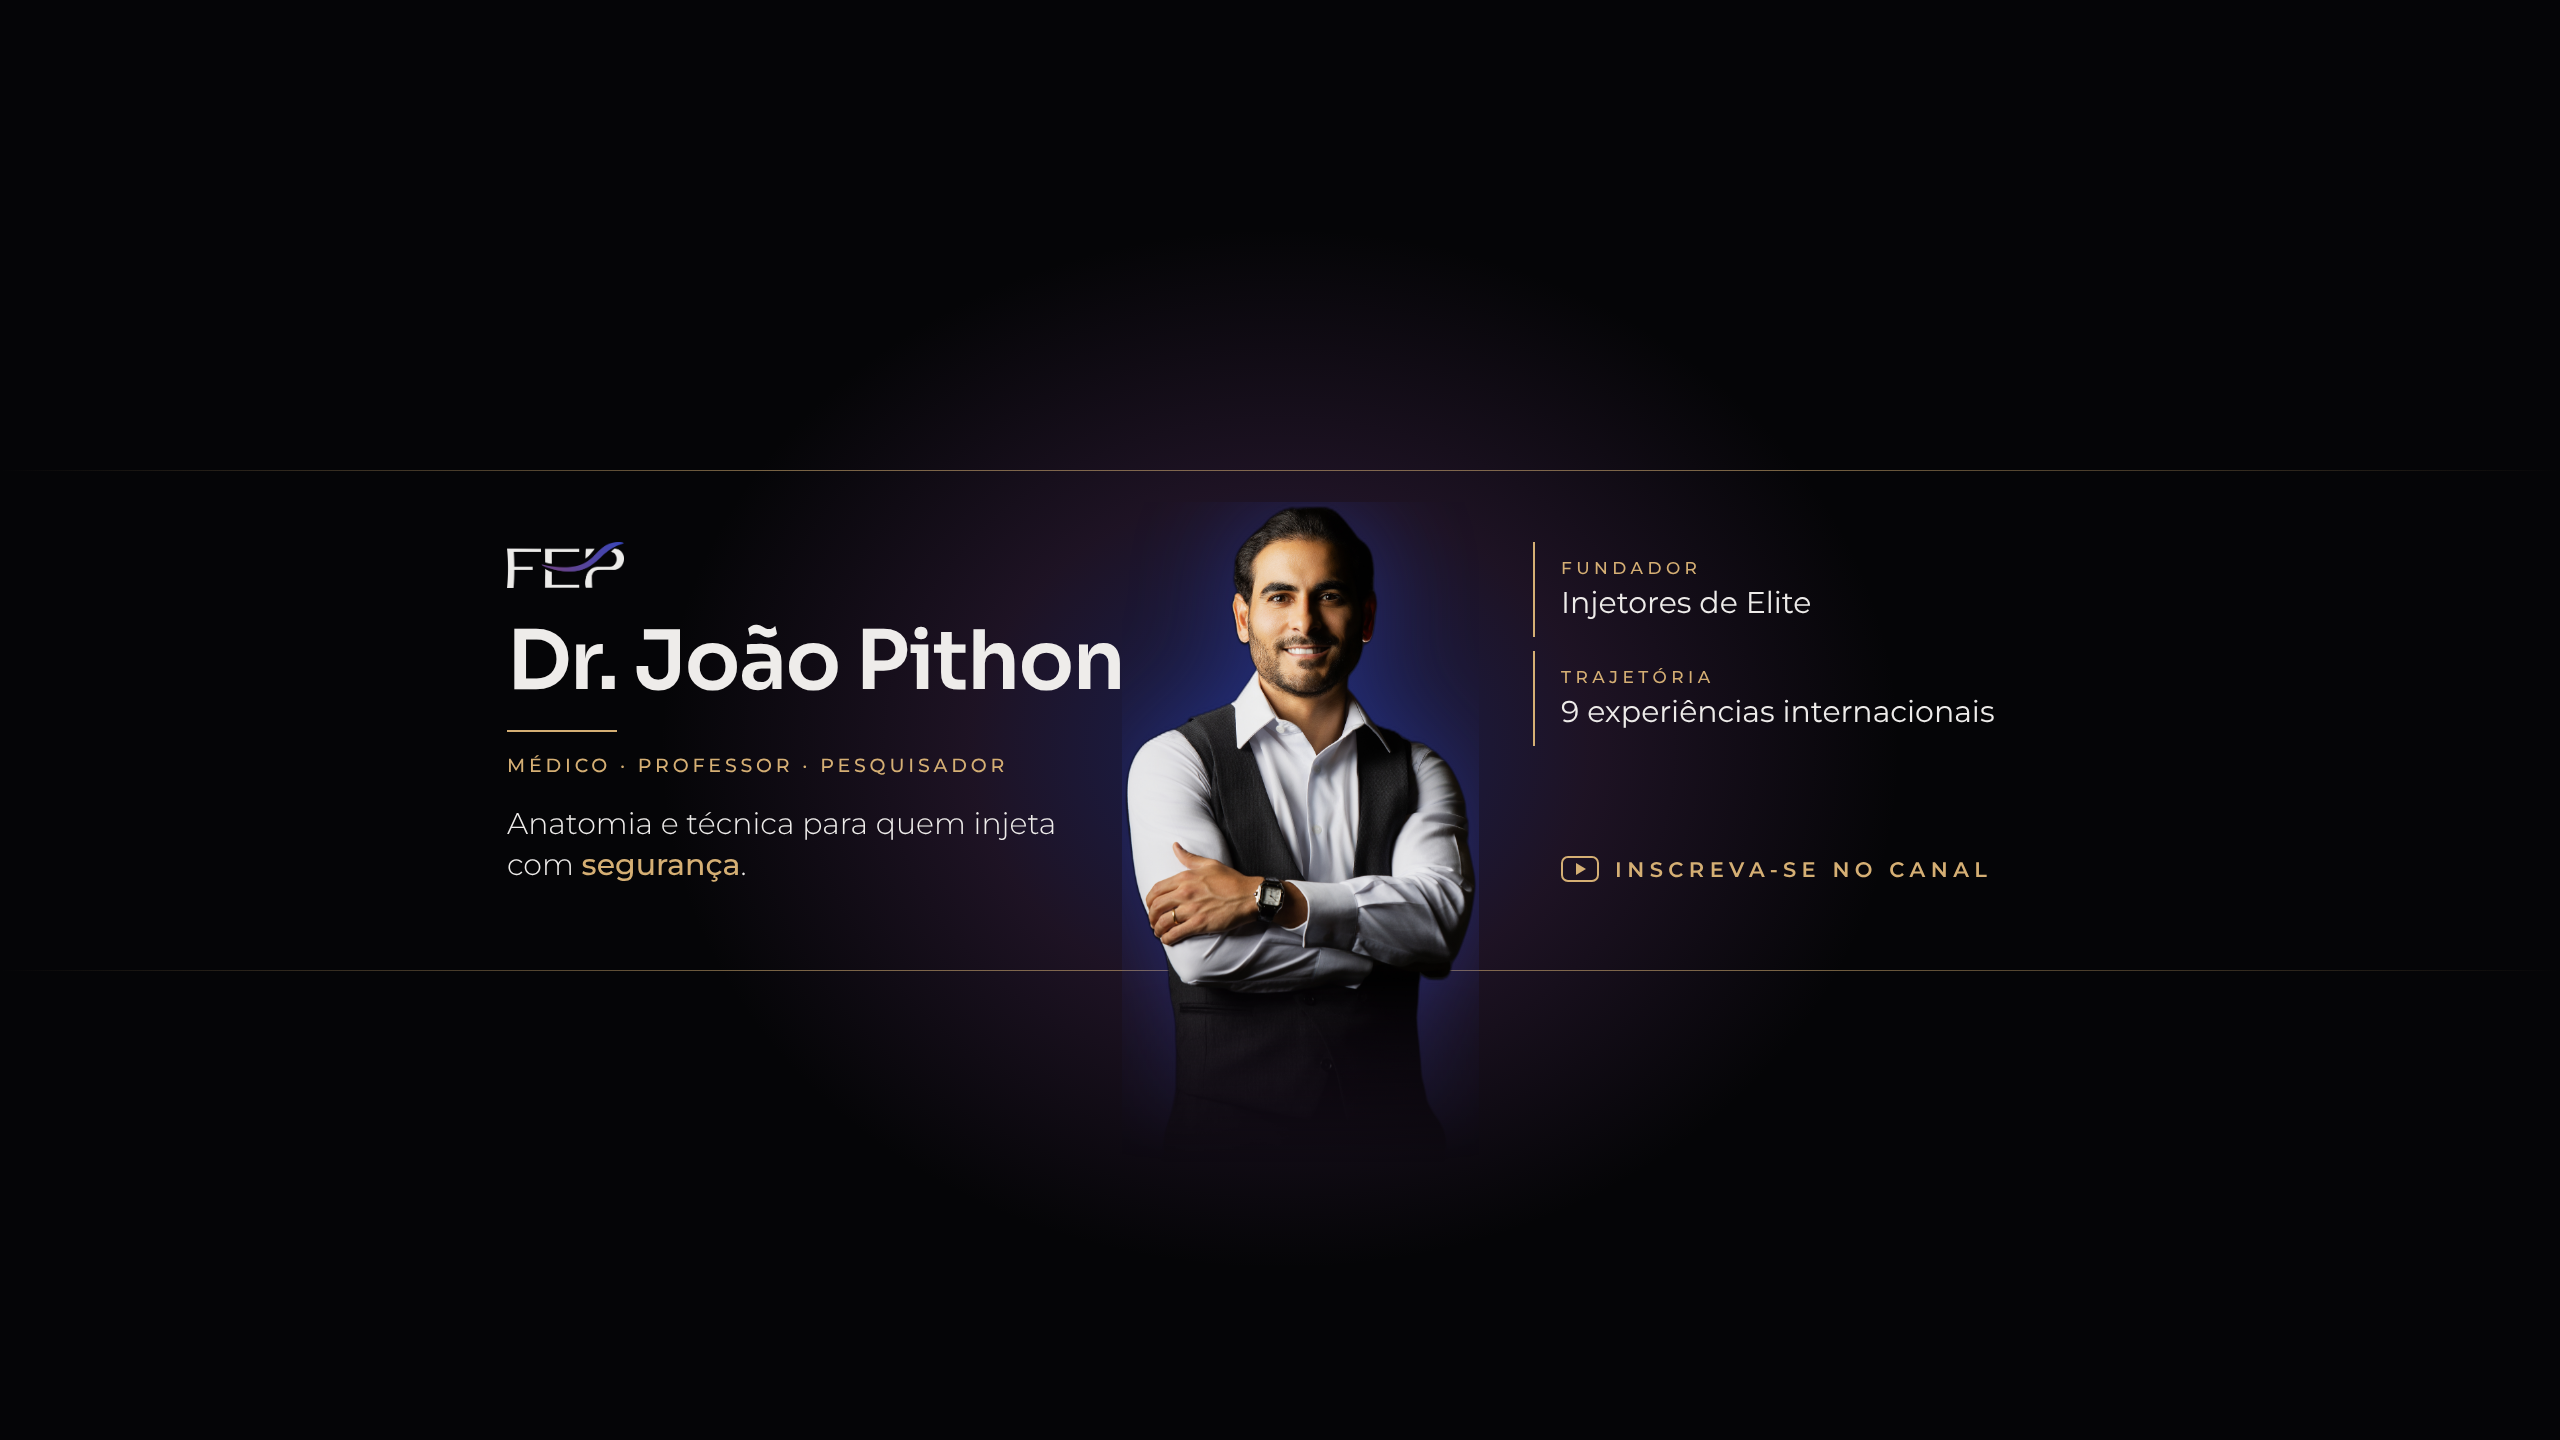
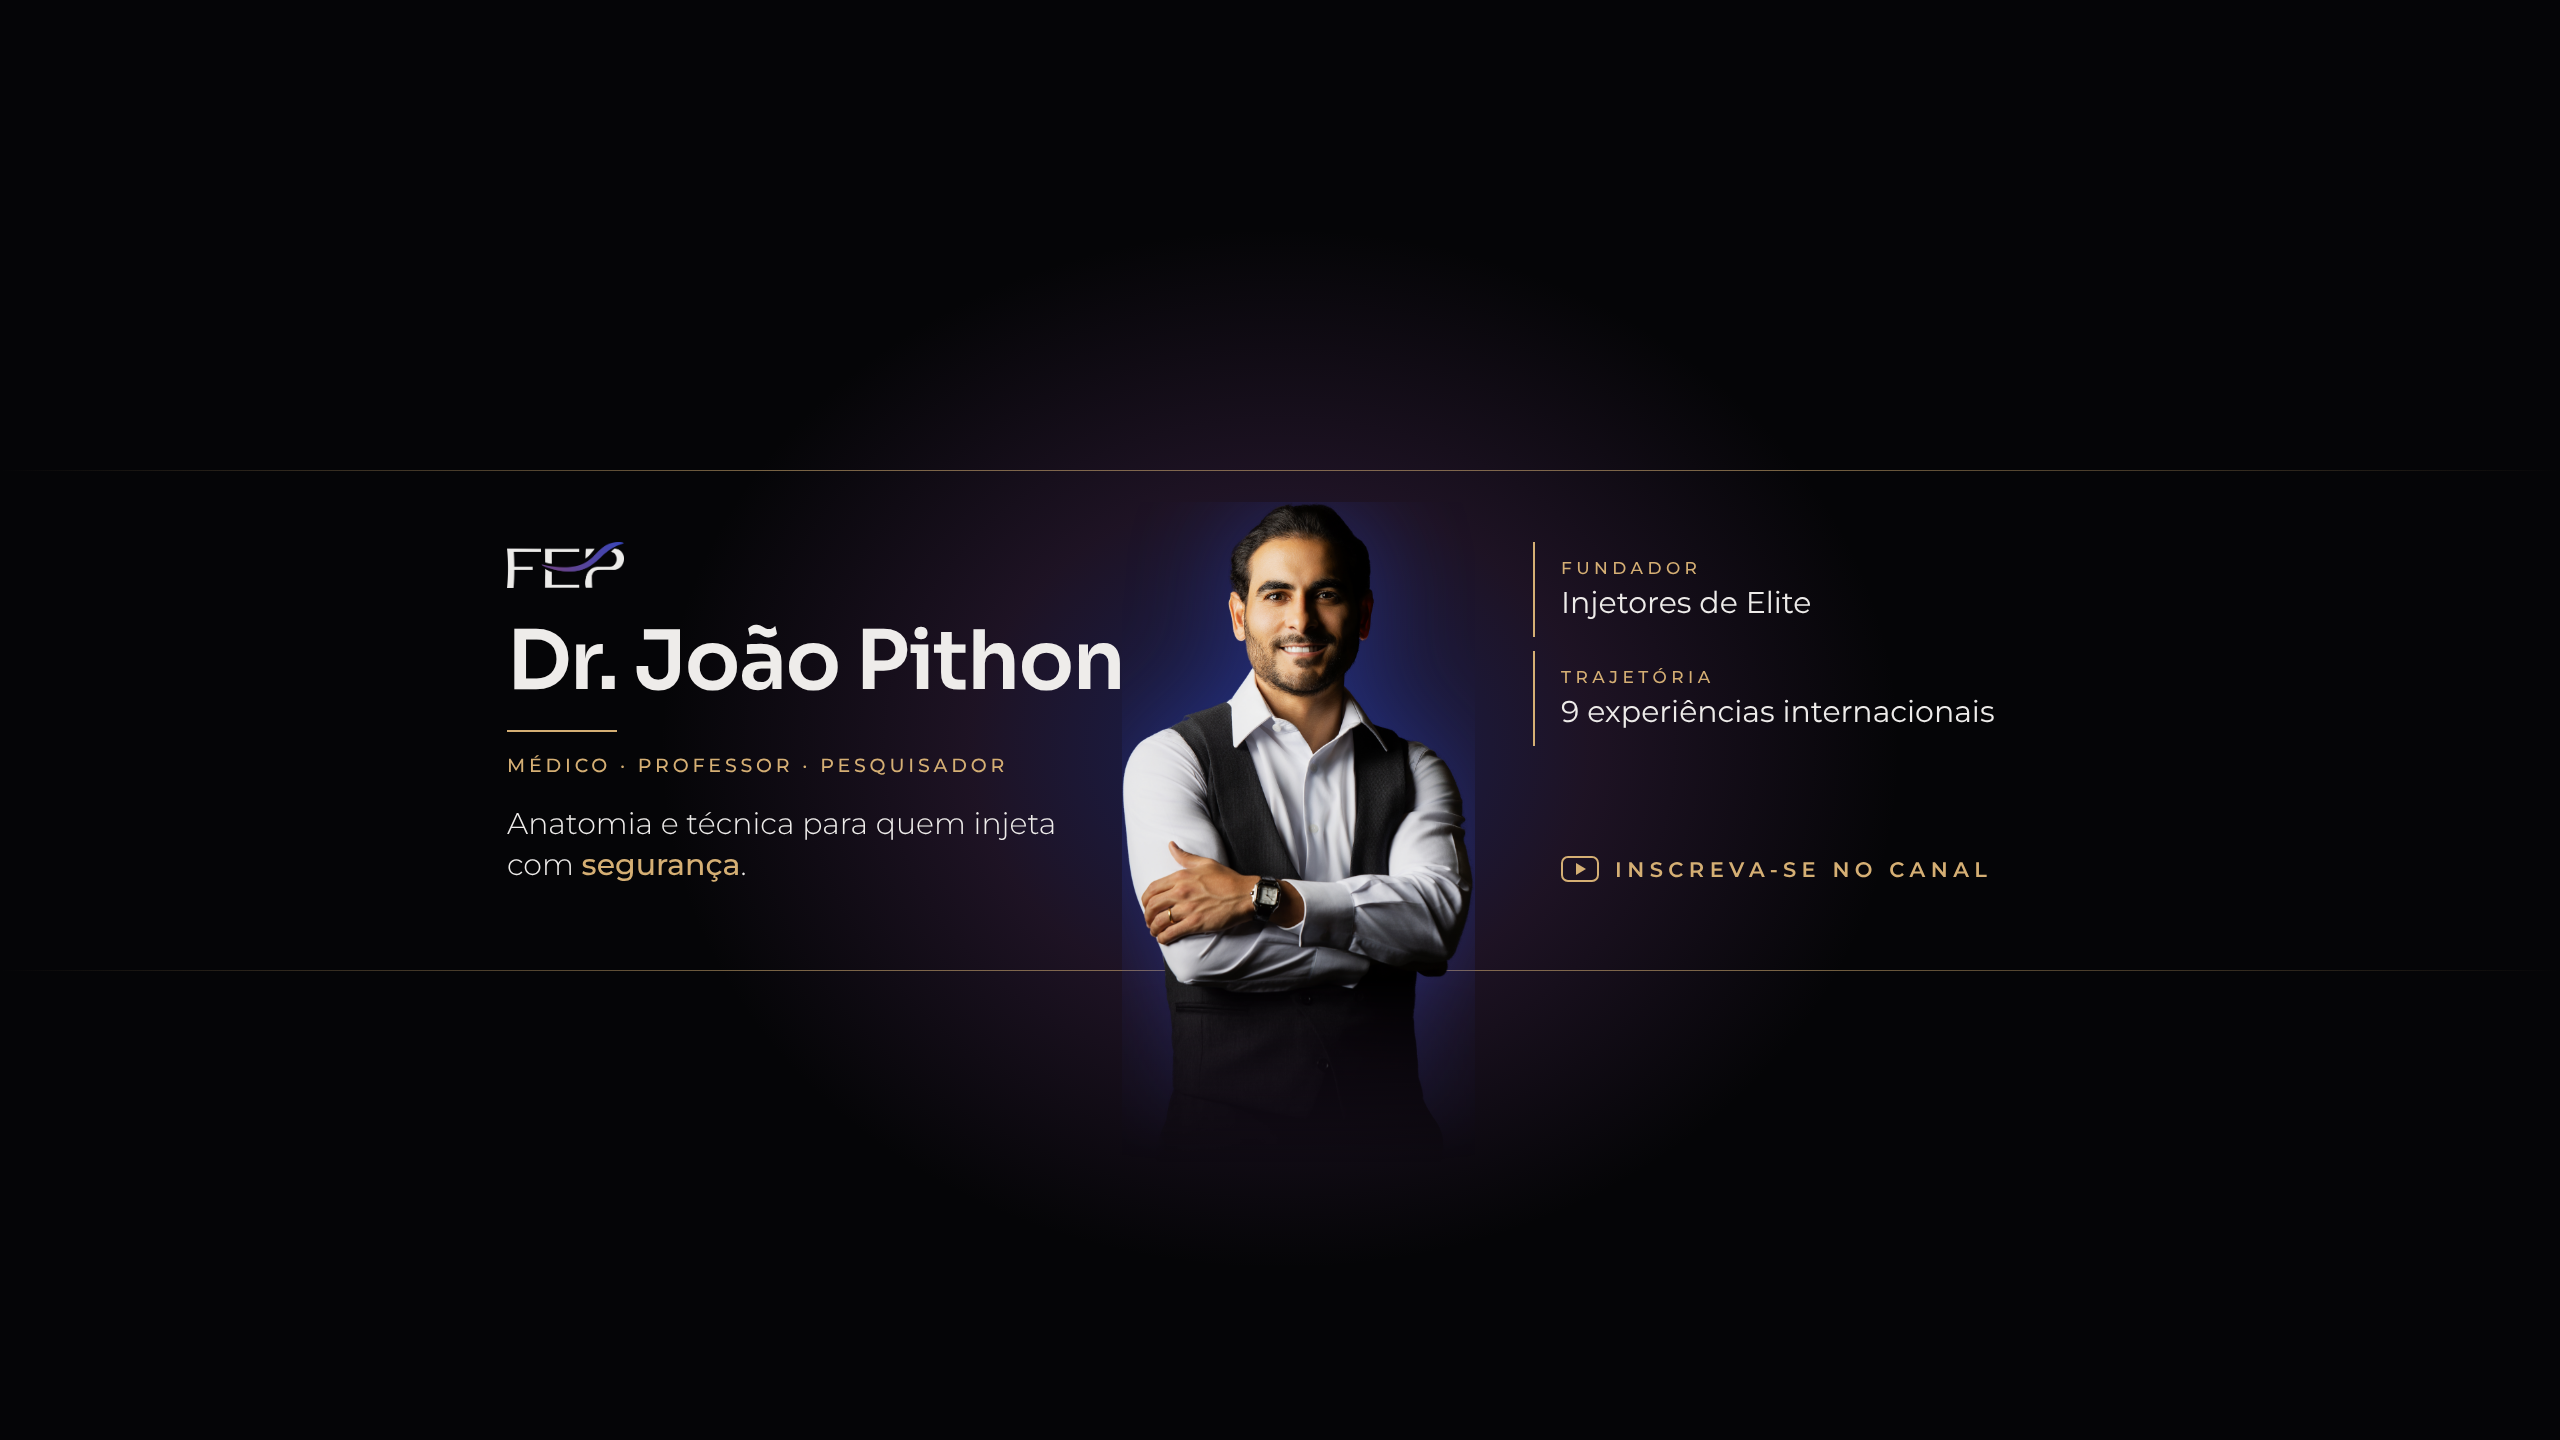
FEA capa YouTube: 3 direções (preta, clara, palco) e recorte limpo da foto
Claude-Session: https://claude.ai/code/session_011MH3jdyDdLhbFaeptuadsh

Changed region(s): [[0.4375, 0.3438, 0.5938, 0.6875]]

diff --git a/FEA-capa-youtube/FEA-capa-youtube-C-palco.html b/FEA-capa-youtube/FEA-capa-youtube-C-palco.html
@@ -1,0 +1,51 @@
+<!doctype html>
+<html lang="pt-BR"><head><meta charset="utf-8"><meta name="viewport" content="width=device-width, initial-scale=1">
+<title>FEA Capa YouTube C</title>
+<link href="https://fonts.googleapis.com/css2?family=Sora:wght@500;600&family=Montserrat:wght@300;400;500;600&display=swap" rel="stylesheet">
+<style>
+/* paleta FEP (brandbook): preto, off-white, azul, roxo, dourado */
+:root{--preto:#050507;--off:#EEECEA;--azul:#3446BE;--roxo:#75438A;--ouro:#D5AF74;--ouro2:#B8925A}
+*{margin:0;padding:0;box-sizing:border-box}
+body{background:#222;padding:20px}
+/* 2560x1440, área segura (aparece em todos os aparelhos): 1546x423 centralizada */
+.capa{width:2560px;height:1440px;position:relative;overflow:hidden;font-family:Montserrat,sans-serif;
+ background:var(--preto)}
+.palco{position:absolute;inset:-60px;background:url(marca/palco-46.jpg) center 62%/cover;filter:blur(14px) brightness(.45) saturate(.9)}
+.veu{position:absolute;inset:0;background:linear-gradient(90deg,rgba(5,5,7,.85) 0%,rgba(5,5,7,.35) 50%,rgba(5,5,7,.85) 100%)}
+.linha-ouro{position:absolute;left:0;right:0;height:1px;background:linear-gradient(90deg,transparent,rgba(213,175,116,.55) 30%,rgba(213,175,116,.55) 70%,transparent)}
+.segura{position:absolute;left:507px;top:508px;width:1546px;height:423px}
+.foto{position:absolute;left:615px;top:-6px;height:660px;filter:drop-shadow(0 0 50px rgba(52,70,190,.45));-webkit-mask-image:linear-gradient(180deg,#000 72%,transparent 100%)}
+.logo{position:absolute;left:0;top:34px;height:46px}
+.nome{position:absolute;left:0;top:112px;font:600 82px Sora;color:var(--off);letter-spacing:-.02em;line-height:1}
+.fio{position:absolute;left:0;top:222px;width:110px;height:2px;background:var(--ouro)}
+.cargo{position:absolute;left:0;top:246px;font:500 19px Montserrat;color:var(--ouro);letter-spacing:.2em;text-transform:uppercase}
+.tese{position:absolute;left:0;top:296px;width:560px;font:300 30px/1.35 Montserrat;color:var(--off)}
+.tese b{font-weight:500;color:var(--ouro)}
+.dir{position:absolute;right:0;top:34px;width:520px}
+.item{padding:16px 0 16px 26px;border-left:2px solid var(--ouro)}
+.item+.item{margin-top:14px}
+.item small{display:block;font:500 17px Montserrat;color:var(--ouro);letter-spacing:.26em;text-transform:uppercase}
+.item span{display:block;font:400 30px Montserrat;color:var(--off);margin-top:6px}
+.cta{position:absolute;right:0;top:348px;width:520px;display:flex;align-items:center;gap:16px;padding-left:28px;font:600 21px Montserrat;color:var(--ouro);letter-spacing:.26em;text-transform:uppercase}
+.cta i{width:38px;height:26px;border:2px solid var(--ouro);border-radius:7px;position:relative;flex:none}
+.cta i:after{content:'';position:absolute;left:13px;top:5px;border-left:10px solid var(--ouro);border-top:6px solid transparent;border-bottom:6px solid transparent}
+</style></head><body>
+<div class="capa" id="capa">
+ <div class="palco"></div><div class="veu"></div>
+ <div class="linha-ouro" style="top:470px"></div>
+ <div class="linha-ouro" style="top:970px"></div>
+ <div class="segura">
+  <img class="logo" src="marca/FEP-SYMBOL-WHITE-trim.png" alt="FEP">
+  <div class="nome">Dr. João Pithon</div>
+  <div class="fio"></div>
+  <div class="cargo">Médico · professor · pesquisador</div>
+  <div class="tese">Anatomia e técnica para quem injeta com <b>segurança</b>.</div>
+  <img class="foto" src="../FEA-recortes-dr-joao/FEA-joao-recorte-077.png" alt="">
+  <div class="dir">
+   <div class="item"><small>Fundador</small><span>Injetores de Elite</span></div>
+   <div class="item"><small>Trajetória</small><span>9 experiências internacionais</span></div>
+  </div>
+  <div class="cta"><i></i>Inscreva-se no canal</div>
+ </div>
+</div>
+</body></html>

diff --git a/FEA-capa-youtube/FEA-capa-youtube-B-clara.html b/FEA-capa-youtube/FEA-capa-youtube-B-clara.html
@@ -1,0 +1,48 @@
+<!doctype html>
+<html lang="pt-BR"><head><meta charset="utf-8"><meta name="viewport" content="width=device-width, initial-scale=1">
+<title>FEA Capa YouTube B</title>
+<link href="https://fonts.googleapis.com/css2?family=Sora:wght@500;600&family=Montserrat:wght@300;400;500;600&display=swap" rel="stylesheet">
+<style>
+/* paleta FEP (brandbook): preto, off-white, azul, roxo, dourado */
+:root{--preto:#050507;--off:#EEECEA;--azul:#3446BE;--roxo:#75438A;--ouro:#B8925A;--ouro2:#B8925A}
+*{margin:0;padding:0;box-sizing:border-box}
+body{background:#222;padding:20px}
+/* 2560x1440, área segura (aparece em todos os aparelhos): 1546x423 centralizada */
+.capa{width:2560px;height:1440px;position:relative;overflow:hidden;font-family:Montserrat,sans-serif;
+ background:var(--off)}
+.onda{position:absolute;left:-200px;right:-200px;top:820px;height:260px}
+.linha-ouro{position:absolute;left:0;right:0;height:1px;background:linear-gradient(90deg,transparent,rgba(213,175,116,.55) 30%,rgba(213,175,116,.55) 70%,transparent)}
+.segura{position:absolute;left:507px;top:508px;width:1546px;height:423px}
+.foto{position:absolute;left:615px;top:-6px;height:660px;-webkit-mask-image:linear-gradient(180deg,#000 72%,transparent 100%)}
+.logo{position:absolute;left:0;top:34px;height:46px}
+.nome{position:absolute;left:0;top:112px;font:600 82px Sora;color:#0b0b0c;letter-spacing:-.02em;line-height:1}
+.fio{position:absolute;left:0;top:222px;width:110px;height:2px;background:var(--ouro)}
+.cargo{position:absolute;left:0;top:246px;font:500 19px Montserrat;color:var(--ouro);letter-spacing:.2em;text-transform:uppercase}
+.tese{position:absolute;left:0;top:296px;width:560px;font:300 30px/1.35 Montserrat;color:#1d1b22}
+.tese b{font-weight:500;color:var(--ouro)}
+.dir{position:absolute;right:0;top:34px;width:520px}
+.item{padding:16px 0 16px 26px;border-left:2px solid var(--ouro)}
+.item+.item{margin-top:14px}
+.item small{display:block;font:500 17px Montserrat;color:var(--ouro);letter-spacing:.26em;text-transform:uppercase}
+.item span{display:block;font:400 30px Montserrat;color:#1d1b22;margin-top:6px}
+.cta{position:absolute;right:0;top:348px;width:520px;display:flex;align-items:center;gap:16px;padding-left:28px;font:600 21px Montserrat;color:var(--ouro);letter-spacing:.26em;text-transform:uppercase}
+.cta i{width:38px;height:26px;border:2px solid var(--ouro);border-radius:7px;position:relative;flex:none}
+.cta i:after{content:'';position:absolute;left:13px;top:5px;border-left:10px solid var(--ouro);border-top:6px solid transparent;border-bottom:6px solid transparent}
+</style></head><body>
+<div class="capa" id="capa">
+ <svg class="onda" viewBox="0 0 2960 260" preserveAspectRatio="none"><defs><linearGradient id="g" x1="0" x2="1"><stop offset="0" stop-color="#3446BE"/><stop offset="1" stop-color="#75438A"/></linearGradient></defs><path d="M0 230 C 700 60, 1300 40, 1900 120 S 2700 200, 2960 60 L2960 110 C 2700 250, 2300 170, 1900 160 S 700 110, 0 260 Z" fill="url(#g)" opacity=".9"/></svg>
+ <div class="segura">
+  <img class="logo" src="marca/FEP-SYMBOL-BLACK-trim.png" alt="FEP">
+  <div class="nome">Dr. João Pithon</div>
+  <div class="fio"></div>
+  <div class="cargo">Médico · professor · pesquisador</div>
+  <div class="tese">Anatomia e técnica para quem injeta com <b>segurança</b>.</div>
+  <img class="foto" src="../FEA-recortes-dr-joao/FEA-joao-recorte-077.png" alt="">
+  <div class="dir">
+   <div class="item"><small>Fundador</small><span>Injetores de Elite</span></div>
+   <div class="item"><small>Trajetória</small><span>9 experiências internacionais</span></div>
+  </div>
+  <div class="cta"><i></i>Inscreva-se no canal</div>
+ </div>
+</div>
+</body></html>
